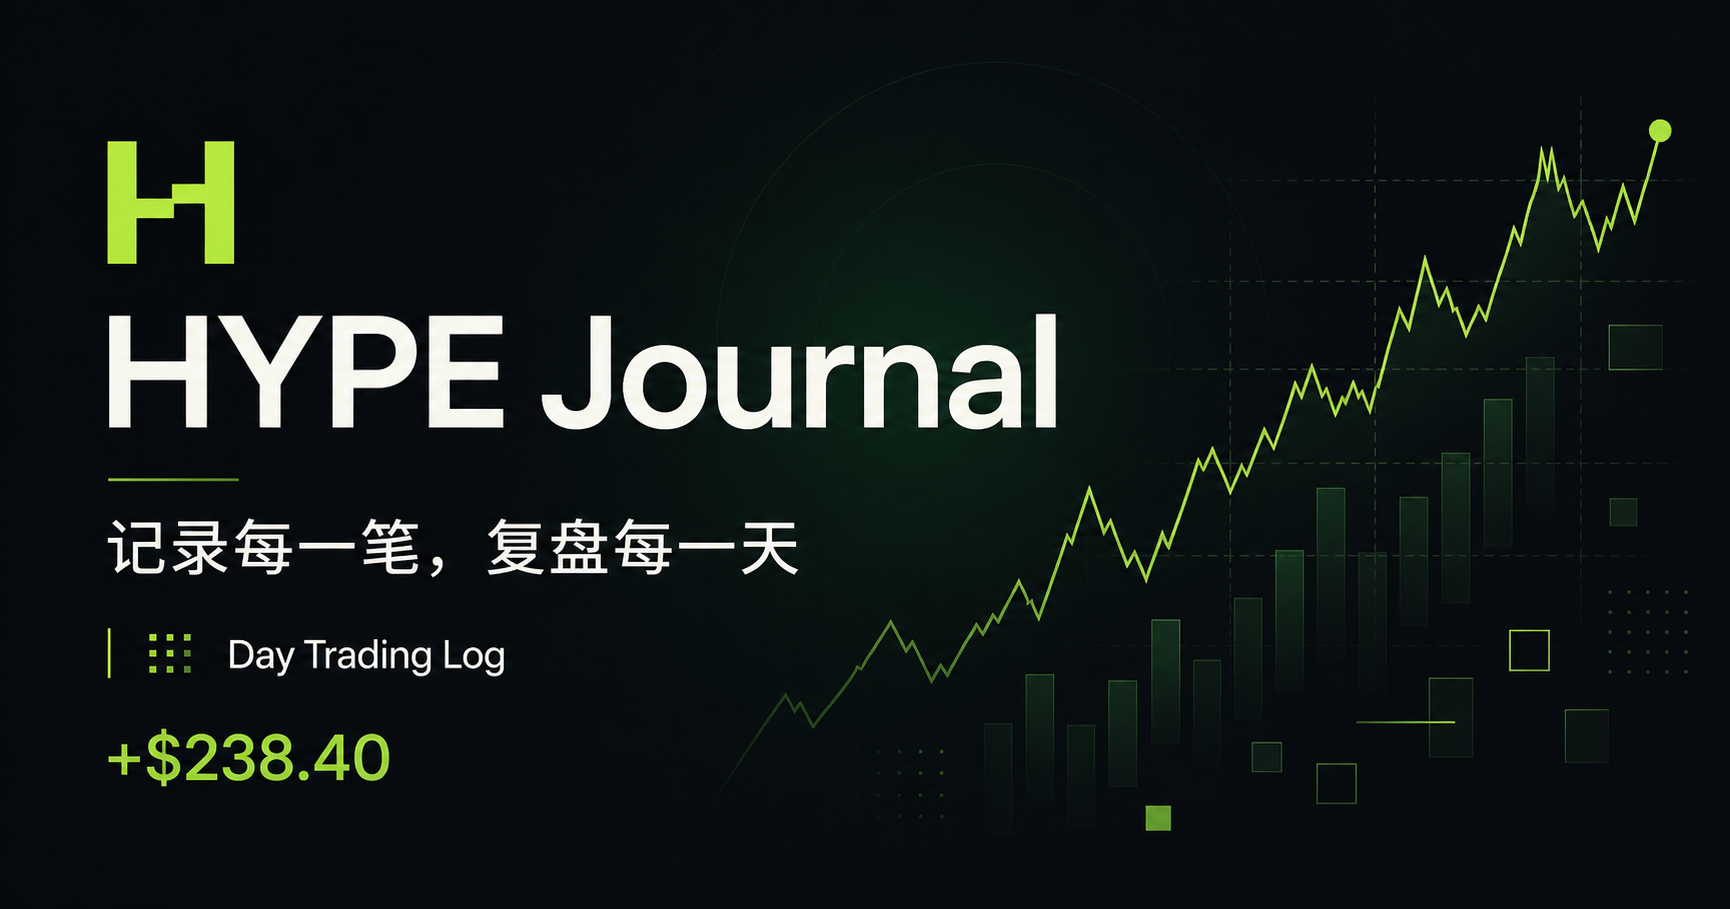
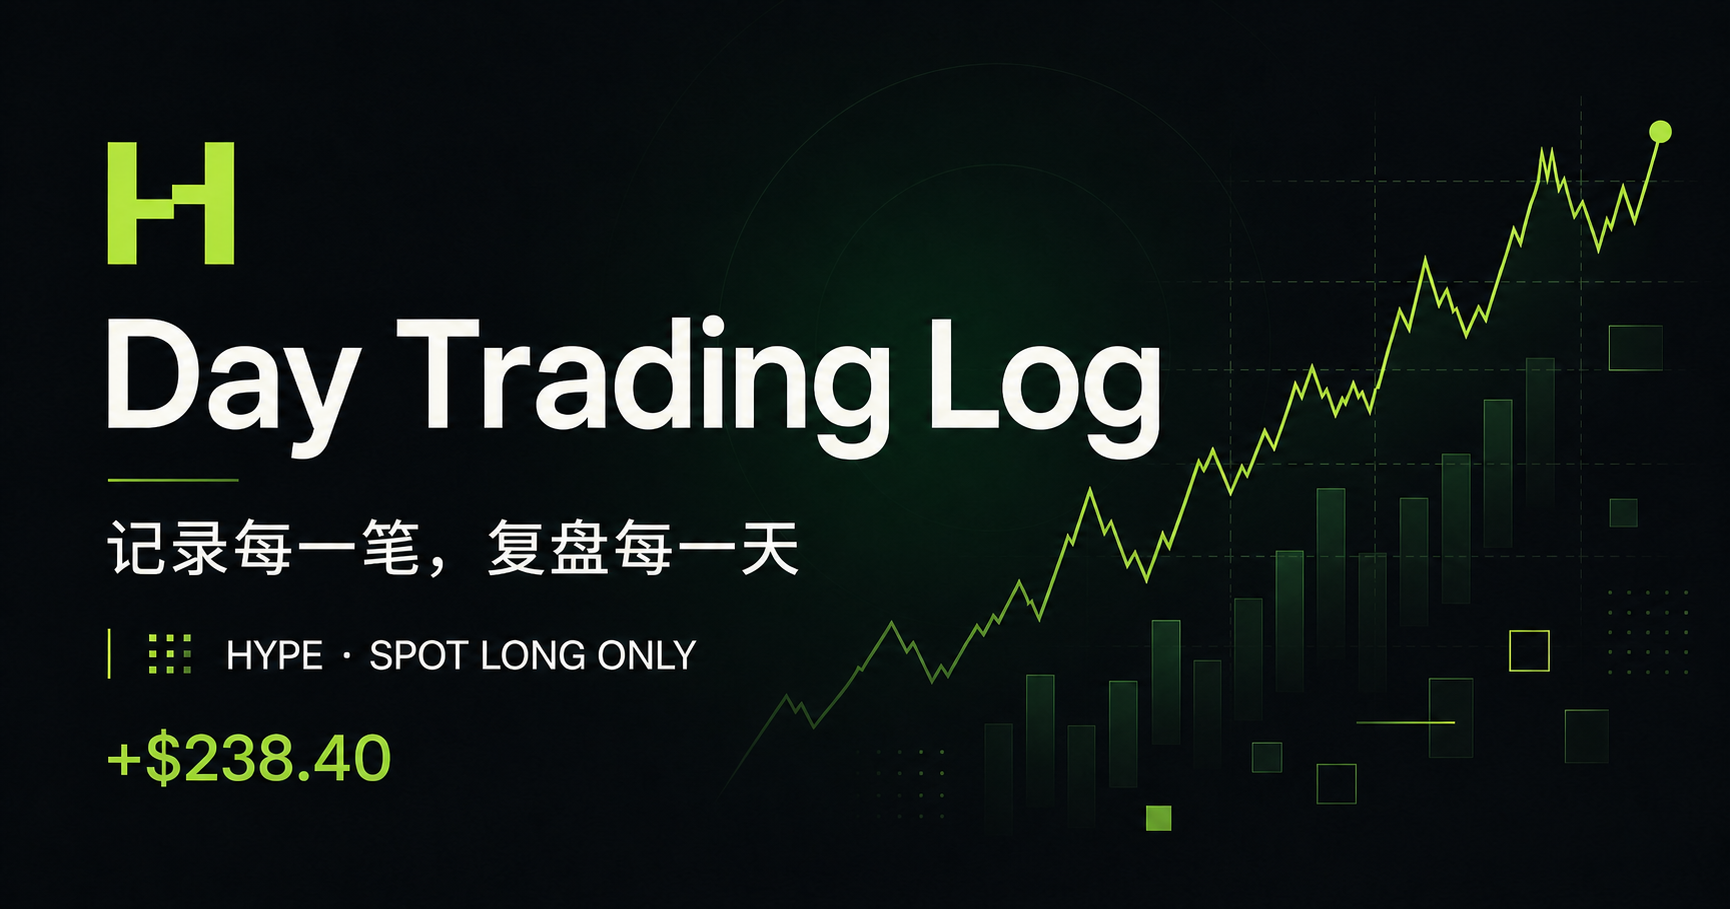
Rename site to Day Trading Log

diff --git a/app/layout.tsx b/app/layout.tsx
@@ -11,7 +11,7 @@ export async function generateMetadata(): Promise<Metadata> {
   const host = requestHeaders.get("x-forwarded-host") ?? requestHeaders.get("host");
   const protocol = requestHeaders.get("x-forwarded-proto") ?? "https";
   const origin = host ? `${protocol}://${host}` : "https://hype-journal.example";
-  const title = "HYPE Journal — 交易日志";
+  const title = "Day Trading Log — HYPE 交易日志";
   const description = "为 HYPE Day Trader 设计的手机端交易记录与盈亏统计工具。";
   return {
     title,

diff --git a/app/trade-journal.tsx b/app/trade-journal.tsx
@@ -325,8 +325,8 @@ export default function TradeJournal({ displayName }: { displayName: string }) {
         <div className="brand">
           <span className="brand-mark">H</span>
           <div>
-            <strong>HYPE Journal</strong>
-            <span>Day Trading Log</span>
+            <strong>Day Trading Log</strong>
+            <span>HYPE · Spot Long Only</span>
           </div>
         </div>
         <div className="user-chip" title={displayName}>
